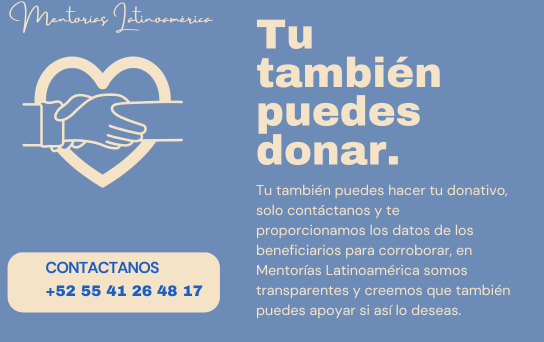
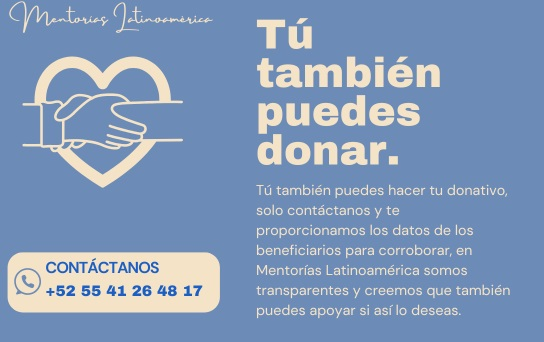
Se Corrigen faltas de ortografia y  se agregan links a landpages que pidió Josué.

diff --git a/entrenamientos.html b/entrenamientos.html
@@ -87,30 +87,40 @@
         <div class="container">
           <h5>Cursos presenciales</h5>
           <div class="row box-icon-1-wrap">
+            <a href="https://funnelmister.com/70567/70567" target="_blank" style="text-decoration: none; color: inherit;">
             <div class="col-md-3 box-icon-1">
               <div class="icon novi-icon fa-solid fa-brain"></div>
               <h5 class="title">Aprendiendo a vender con neurociencias</h5>
-              <p class="text">En este entrenamiento conectarás con tu niño interior, sanaras tus heridas emocionales y de dinero, aprenderás las bases de las neurociencias aplicadas a la vida y a las ventas, esto no es un entrenamiento común y corriente, es una experiencia de vida. </p>
+              <p class="text">En este entrenamiento conectarás con tu niño interior, sanarás tus heridas emocionales y de dinero, aprenderás las bases de las neurociencias aplicadas a la vida y a las ventas, esto no es un entrenamiento común y corriente, es una experiencia de vida. </p>
             </div>
-
+            </a>
+            
+            <a href="https://funnelmister.com/70610/70610" target="_blank" style="text-decoration: none; color: inherit;">
             <div class="col-md-3 box-icon-1">
               <div class="icon novi-icon fa-solid fa-book-open-reader"></div>
               <h5 class="title">Liderazgo con propósito</h5>
-              <p class="text">Este es un entrenamiento que te enseña la importancia del liderazgo, desde la perspectiva personal hasta el ámbito empresarial, para dirigir, tu vida, tu familia, tu matrimonio, un equipo de trabajo y una empresa entre otros.</p>
+              <p class="text">Este es un entrenamiento que te enseña la importancia del liderazgo, desde la perspectiva personal hasta el ámbito empresarial, para dirigir; tu vida, tu familia, tu matrimonio, un equipo de trabajo y una empresa entre otros.</p>
             </div>
+            </a>
             
+
+              <a href="https://funnelmister.com/70611/70611" target="_blank" style="text-decoration: none; color: inherit;">
             <div class="col-md-3 box-icon-1">
               <div class="icon novi-icon fa-solid fa-hand-holding-dollar"></div>
               <h5 class="title">Consultoría de ventas</h5>
-              <p class="text">Este es un servicio donde examinamos con lupa los KPI’S de tu empres para así poder revisar donde está el área de oportunidad o  aumentar tus ventas de manera exponencial.</p>
-            </div>
+              <p class="text">Este es un servicio donde examinamos con lupa los KPI’S de tu empresa para así poder revisar donde está el área de oportunidad o  aumentar tus ventas de manera exponencial.</p>
+            </div>         
+            </a>
 
+            <a href="https://funnelmister.com/70618/70618" target="_blank" style="text-decoration: none; color: inherit;">
             <div class="col-md-3 box-icon-1">
               <div class="icon novi-icon fa-solid fa-user-tie"></div>
               <h5 class="title">Mentorías 1 a 1</h5>
-              <p class="text">En estas sesiones personalizadas nos damos a la tarea de descubrir tu propósito de vida desde los más profundo de tu esencia hasta tus dones y habilidades por medio de técnicas de ingeniería cerebral.  </p>
+              <p class="text">En estas sesiones personalizadas nos damos a la tarea de descubrir tu propósito de vida desde lo más profundo de tu esencia hasta tus dones y habilidades por medio de técnicas de ingeniería cerebral.  </p>
             </div>
+             </a>
           </div>
+         
         </div>
       </section>
       

diff --git a/donaciones.html b/donaciones.html
@@ -89,7 +89,7 @@
             </div>
             <div class="col-md-6 col-xl-4">
               <h5>Donaciones</h5>
-              <p class="big">En mentorias latinoamerica donamos el 10 % de cada curso, taller conferencia o mentoria a niños con cáncer, cada que compras un curso o servicios nuestros estas ayudando a un ser humano con cáncer u otra enfermedad, cosulta nuestra pagina de facebook para mas informacion o contáctanos via whatsapp. 
+              <p class="big">En Mentorías Latinoamérica donamos el 10 % de cada curso, taller conferencia o mentoría a niños con cáncer, cada que compras un curso o servicios nuestros estas ayudando a un ser humano con cáncer u otra enfermedad, consulta nuestra página de Facebook para más información o contáctanos vía WhatsApp.. 
                
                 <a href="https://www.facebook.com/share/15ALx64C9u/" target="_blank"><i class="fa-brands fa-facebook" style="font-size: 24px;"></i></a></li> </p>
             </div>

diff --git a/nosotros.html b/nosotros.html
@@ -165,7 +165,7 @@
                 </div>
                 <div class="unit-body">
                   <h5 class="title">Liderazgo</h5>
-                  <div class="content">Predicar siempre con el ejemplo de lo que enseñemos, que lo que hagas con lo que eres y lo que dices tenga congruencia.
+                  <div class="content">Predicar siempre con el ejemplo de lo que enseñemos: que lo que hagas con lo que eres y lo que dices tenga congruencia.
 
                   </div>
                 </div>
